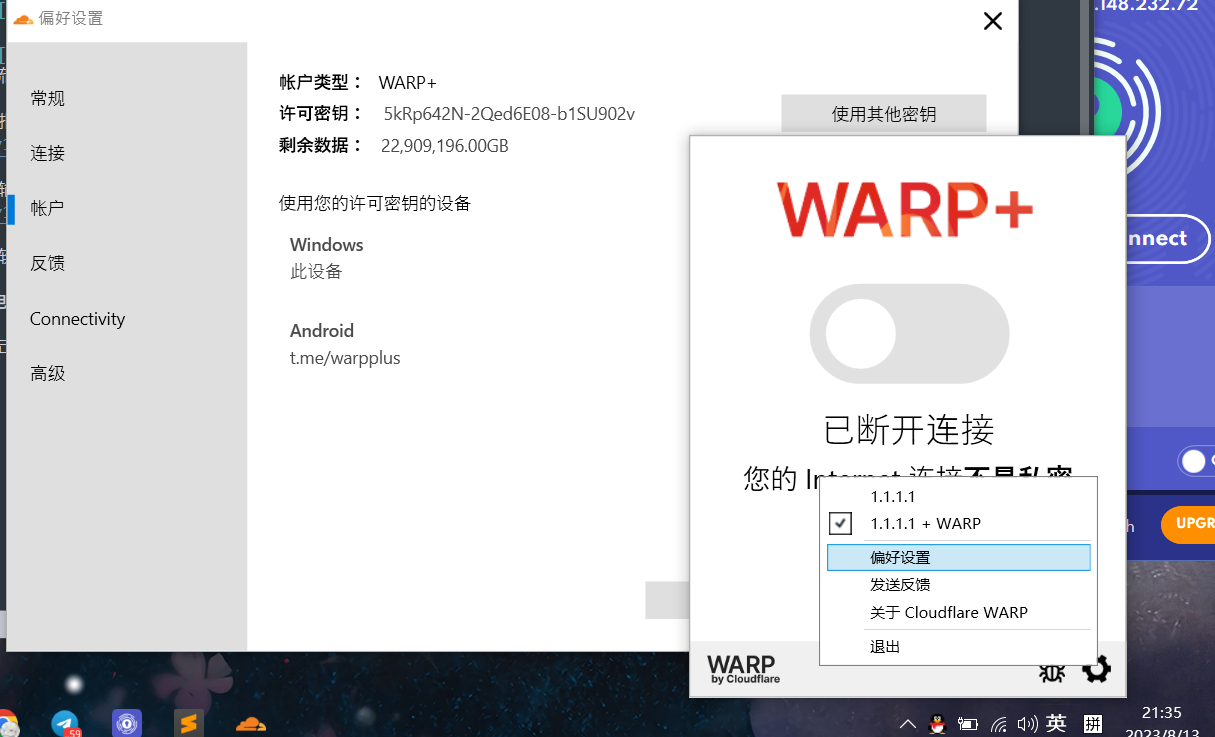
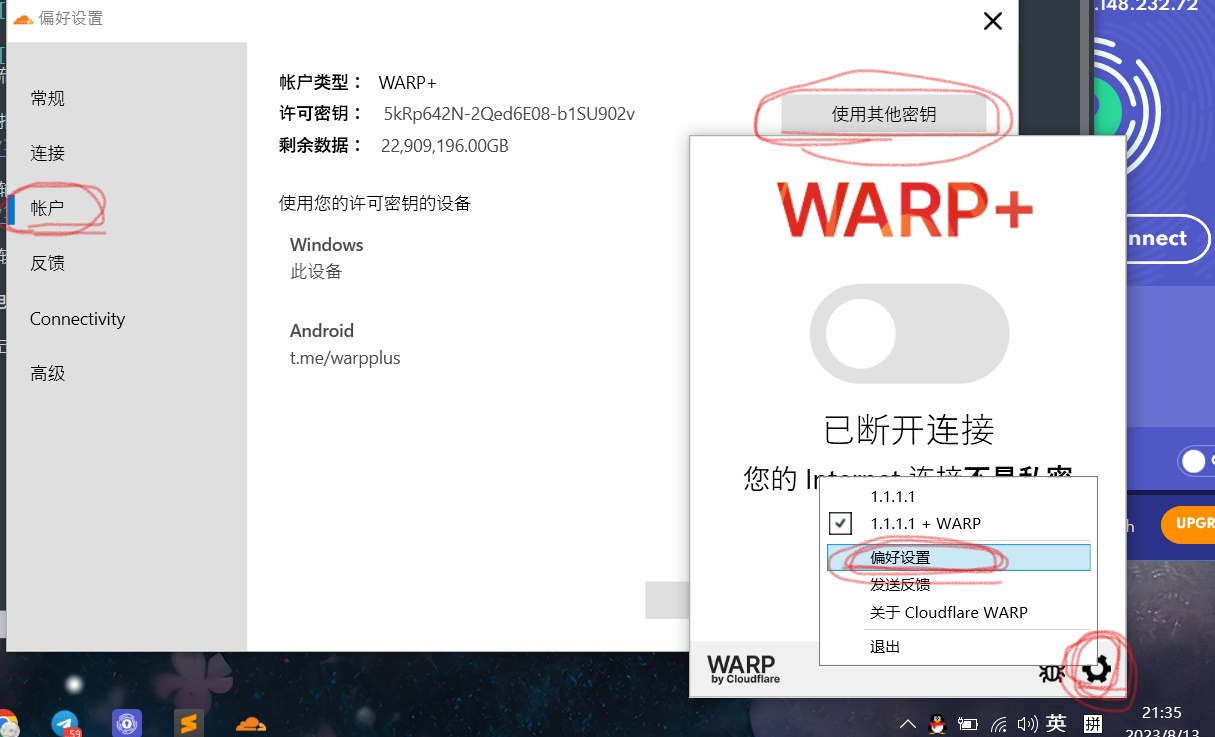
Site updated: 2023-08-13 22:03:11

diff --git a/2023/08/13/good/index.html b/2023/08/13/good/index.html
@@ -12,7 +12,7 @@
 
     
     <title>
-        无限解锁YouTube |
+        无限流量VPN |
         
         Sherry的博客</title>
     <meta name="viewport" content="width=device-width, initial-scale=1, shrink-to-fit=no">
@@ -23,18 +23,18 @@
     
 <link rel="stylesheet" href="/css/loader.css">
 
-    <meta name="description" content="WARP+  首先去WARP官网 下载软件   其次去电报机器人领取12~23PB的流量密钥（注：1PB&#x3D;1000TB&#x3D;1000 000GB流量）由此可以实现近乎无限流量解锁外网YouTube。   进入电报之后首先输入&#x2F;start，再输入&#x2F;generate，这个时候需要点进去并且关注这两个频道。   然后再输入&#x2F;generate，这个时候会弹出来">
+    <meta name="description" content="WARP+  首先去WARP官网 下载软件   其次去电报机器人领取23PB的流量密钥（注：1PB&#x3D;1000TB&#x3D;1000 000GB流量）由此可以实现近乎无限流量解锁外网YouTube。   进入电报之后首先输入&#x2F;start，再输入&#x2F;generate，这个时候需要点进去并且关注这两个频道。   然后再输入&#x2F;generate，这个时候会弹出来简单的">
 <meta property="og:type" content="article">
-<meta property="og:title" content="无限解锁YouTube">
+<meta property="og:title" content="无限流量VPN">
 <meta property="og:url" content="https://sherry14love.github.io/2023/08/13/good/index.html">
 <meta property="og:site_name" content="Sherry的博客">
-<meta property="og:description" content="WARP+  首先去WARP官网 下载软件   其次去电报机器人领取12~23PB的流量密钥（注：1PB&#x3D;1000TB&#x3D;1000 000GB流量）由此可以实现近乎无限流量解锁外网YouTube。   进入电报之后首先输入&#x2F;start，再输入&#x2F;generate，这个时候需要点进去并且关注这两个频道。   然后再输入&#x2F;generate，这个时候会弹出来">
+<meta property="og:description" content="WARP+  首先去WARP官网 下载软件   其次去电报机器人领取23PB的流量密钥（注：1PB&#x3D;1000TB&#x3D;1000 000GB流量）由此可以实现近乎无限流量解锁外网YouTube。   进入电报之后首先输入&#x2F;start，再输入&#x2F;generate，这个时候需要点进去并且关注这两个频道。   然后再输入&#x2F;generate，这个时候会弹出来简单的">
 <meta property="og:locale" content="zh_CN">
 <meta property="og:image" content="https://sherry14love.github.io/images/warpbot.jpg">
 <meta property="og:image" content="https://sherry14love.github.io/images/warpkey.jpg">
 <meta property="og:image" content="https://sherry14love.github.io/images/warps.jpg">
 <meta property="article:published_time" content="2023-08-12T16:00:00.000Z">
-<meta property="article:modified_time" content="2023-08-13T13:51:19.454Z">
+<meta property="article:modified_time" content="2023-08-13T14:01:57.014Z">
 <meta property="article:author" content="Sherry">
 <meta property="article:tag" content="实用">
 <meta name="twitter:card" content="summary">
@@ -113,7 +113,7 @@
         <div id="wrap">
             <header id="header">
     
-        <img data-src="/images/banner.jpg" data-sizes="auto" alt="无限解锁YouTube" class="lazyload">
+        <img data-src="/images/banner.jpg" data-sizes="auto" alt="无限流量VPN" class="lazyload">
     
     <div id="header-outer" class="outer">
         <div id="header-title" class="inner">
@@ -121,7 +121,7 @@
                 
                     
                     
-                        <a href="/" id="logo"><h1>无限解锁YouTube</h1></a>
+                        <a href="/" id="logo"><h1>无限流量VPN</h1></a>
                     
                 
             </div>
@@ -197,20 +197,20 @@
         <div class="e-content article-entry" itemprop="articleBody">
             
                 <h2 id="WARP"><a href="#WARP" class="headerlink" title="WARP+"></a>WARP+</h2><p>  首先去<a target="_blank" rel="noopener" href="https://1.1.1.1/">WARP官网</a> 下载软件</p>
-<p>  其次去<a target="_blank" rel="noopener" href="https://t.me/generatewarpplusbot">电报机器人</a>领取12~23PB的流量密钥（注：1PB&#x3D;1000TB&#x3D;1000 000GB流量）由此可以实现近乎无限流量解锁外网YouTube。</p>
+<p>  其次去<a target="_blank" rel="noopener" href="https://t.me/generatewarpplusbot">电报机器人</a>领取23PB的流量密钥（注：1PB&#x3D;1000TB&#x3D;1000 000GB流量）由此可以实现近乎无限流量解锁外网YouTube。</p>
 <p>  进入电报之后首先输入&#x2F;start，再输入&#x2F;generate，这个时候需要点进去并且关注这两个频道。<img src="https://sherry14love.github.io/images/warpbot.jpg" alt="1"></p>
 <p>  然后再输入&#x2F;generate，这个时候会弹出来简单的数字相加减，输入&#x2F;generate 9（如图所示）<img src="https://sherry14love.github.io/images/warpkey.jpg" alt="2"></p>
-<p>  最后在软件的偏好设置里，点击账户，里面有个使用其他密钥，更换密钥就行了。<img src="https://sherry14love.github.io/images/warps.jpg" alt="2"></p>
+<p>  最后在软件的<strong>偏好设置</strong>里，点击<strong>账户</strong>，里面有个<strong>使用其他密钥</strong>，更换密钥就行了。<img src="https://sherry14love.github.io/images/warps.jpg" alt="3"></p>
 <h2 id="没有电报怎么办"><a href="#没有电报怎么办" class="headerlink" title="没有电报怎么办"></a>没有电报怎么办</h2><p>  可以点击<a target="_blank" rel="noopener" href="https://replit.com/@kelekekou8/WarpKey">这个</a>，然后直接运行也可以生成一个密钥，从而进行使用。</p>
 <blockquote>
-<p>注意这里面的WARP虽然又两千多万GB流量，但是这个流量不能支持<strong>Open AI</strong>、<strong>Netflix</strong>、<strong>tiktok</strong>、<strong>Disney</strong>，但对于<strong>YouTube</strong>、<strong>Facebook</strong>、<strong>Twitter</strong>、<strong>Discord</strong>、<strong>Tumblr</strong>、<strong>Mastodon</strong>等网页是支持访问且无限制的，不过需注意这里的访问和你在国内一样，如果你平常不用<strong>VPN</strong>进行上网保护个人隐私的话。</p>
+<p>注意这里面的WARP虽然又两千多万GB流量，但是这个流量不能支持<strong>Open AI</strong>、<strong>Netflix</strong>、<strong>tiktok</strong>、<strong>Disney</strong>，但对于<strong>YouTube</strong>、<strong>Facebook</strong>、<strong>Twitter</strong>、<strong>Discord</strong>、<strong>Tumblr</strong>、<strong>Mastodon</strong>等网页是支持访问且无限制的，不过需注意这里的访问和你在国内一样，如果你平常不用<strong>VPN</strong>进行上网保护个人隐私的话（会暴露个人ip）。</p>
 </blockquote>
-<h2 id="解锁ChatGPT和Netflix"><a href="#解锁ChatGPT和Netflix" class="headerlink" title="解锁ChatGPT和Netflix"></a>解锁ChatGPT和Netflix</h2><p>  这里会有朋友问怎么可以去Open AI、Netflix、tiktok、Disney这几个网站，这个的话，倒也是有几个方法，但是Sherry太垃圾了，这几天还在练车，没怎么有时间搞。<br>  不过你去YouTube里搜索一下，一大堆利用WARP的解锁篇，解锁ChatGPT和Netflix的（多半是用VPS解锁，加油~）</p>
+<h2 id="解锁ChatGPT和Netflix"><a href="#解锁ChatGPT和Netflix" class="headerlink" title="解锁ChatGPT和Netflix"></a>解锁ChatGPT和Netflix</h2><p>  这里会有朋友问怎么可以去Open AI、Netflix、tiktok、Disney这几个网站，这个的话，倒也是有几个方法，但是Sherry太垃圾了，这几天还在练车，没怎么有时间搞。<br>  不过你去YouTube里搜索一下，一大堆利用WARP的解锁篇，解锁ChatGPT和Netflix的（多半是用VPS解锁，嗯~ o(<em>￣▽￣</em>)o）</p>
 
             
         </div>
         <footer class="article-footer">
-            <a data-url="https://sherry14love.github.io/2023/08/13/good/" data-id="cll9i829o0000y0tx81rc7uq8" data-title="无限解锁YouTube"
+            <a data-url="https://sherry14love.github.io/2023/08/13/good/" data-id="cll9i829o0000y0tx81rc7uq8" data-title="无限流量VPN"
                class="article-share-link">分享</a>
             
                 <a href="/2023/08/13/good/#comments" class="article-comment-link">
@@ -236,7 +236,7 @@
                 
                     
                     
-                        <img data-src="/covers/281d5y.jpg" data-sizes="auto" alt="拾词-Two" class="lazyload">
+                        <img data-src="/covers/2003389.jpg" data-sizes="auto" alt="拾词-Two" class="lazyload">
                     
                 
                 <a href="/2023/08/11/mood/"></a>

diff --git a/index.html b/index.html
@@ -175,7 +175,7 @@
             
                 
                 
-                    <img data-src="/covers/281d5y.jpg" data-sizes="auto" alt="无限解锁YouTube" class="lazyload">
+                    <img data-src="/covers/EA141EDCBED74EFB8344540EF62BDEDA.jpg" data-sizes="auto" alt="无限流量VPN" class="lazyload">
                 
             
 
@@ -184,21 +184,21 @@
             <div class="post-meta">
                 <a><span class="icon-calendar"></span>2023-08-13</a>
                 
-                    <a><span class="icon-pencil"></span>370 字</a>
+                    <a><span class="icon-pencil"></span>376 字</a>
                 
                 
                     <a><span class="icon-clock"></span>1 分钟</a>
                 
             </div>
-            <h2 class="post-title">无限解锁YouTube</h2>
+            <h2 class="post-title">无限流量VPN</h2>
             <article class="post-article">
                 
                     WARP+  首先去WARP官网 下载软件
-  其次去电报机器人领取12~23PB的流量密钥（注：1PB&amp;#x3D;1000TB&amp;#x3D;1000 000GB流量）由此可以实现近乎无限流量解锁外网YouTube。
+  其次去电报机器人领取23PB的流量密钥（注：1PB&amp;#x3D;1000TB&amp;#x3D;1000 000GB流量）由此可以实现近乎无限流量解锁外网YouTube。
   进入电报之后首先输入&amp;#x2F;start，再输入&amp;#x2F;generate，这个时候需要点进去并且关注这两个频道。
   然后再输入&amp;#x2F;generate，这个时候会弹出来简单的数字相加减，输入&amp;#x2F;generate 9（如图所示）
   最后在软件的偏好设置里，点击账户，里面有个使用其他密钥，更换密钥就行了。
-没有电报怎么办  可以点击这个，然后直接运行也可以生成
+没有电报怎么办  可以点击这个，然后直接运行也可以生成一个密
                 
             </article>
         </div>
@@ -215,7 +215,7 @@
             
                 
                 
-                    <img data-src="/covers/2003466.jpg" data-sizes="auto" alt="拾词-Two" class="lazyload">
+                    <img data-src="https://d-sketon.top/img/backimg/bg1.jpg" data-sizes="auto" alt="拾词-Two" class="lazyload">
                 
             
         </div>
@@ -223,7 +223,7 @@
             <div class="post-meta">
                 <a><span class="icon-calendar"></span>2023-08-11</a>
                 
-                    <a><span class="icon-pencil"></span>0 字</a>
+                    <a><span class="icon-pencil"></span>32 字</a>
                 
                 
                     <a><span class="icon-clock"></span>1 分钟</a>
@@ -232,7 +232,10 @@
             <h2 class="post-title">拾词-Two</h2>
             <article class="post-article">
                 
-                    
+                    暂无内容，Sherry懒得写（虽说前几天就想写了）
+鸽掉先（bushi）
+PS:后面一定补上！（私密马赛~）
+
                 
             </article>
         </div>
@@ -295,7 +298,7 @@
             
                 
                 
-                    <img data-src="/covers/2000248.jpg" data-sizes="auto" alt="拾词-One" class="lazyload">
+                    <img data-src="https://d-sketon.top/img/backimg/bg1.jpg" data-sizes="auto" alt="拾词-One" class="lazyload">
                 
             
         </div>

diff --git a/2023/08/11/mood/index.html b/2023/08/11/mood/index.html
@@ -23,13 +23,15 @@
     
 <link rel="stylesheet" href="/css/loader.css">
 
-    <meta property="og:type" content="article">
+    <meta name="description" content="暂无内容，Sherry懒得写（虽说前几天就想写了） 鸽掉先（bushi） PS:后面一定补上！（私密马赛~）">
+<meta property="og:type" content="article">
 <meta property="og:title" content="拾词-Two">
 <meta property="og:url" content="https://sherry14love.github.io/2023/08/11/mood/index.html">
 <meta property="og:site_name" content="Sherry的博客">
+<meta property="og:description" content="暂无内容，Sherry懒得写（虽说前几天就想写了） 鸽掉先（bushi） PS:后面一定补上！（私密马赛~）">
 <meta property="og:locale" content="zh_CN">
 <meta property="article:published_time" content="2023-08-11T12:13:06.646Z">
-<meta property="article:modified_time" content="2023-08-13T13:51:12.669Z">
+<meta property="article:modified_time" content="2023-08-13T13:55:04.333Z">
 <meta property="article:author" content="Sherry">
 <meta property="article:tag" content="诗词">
 <meta name="twitter:card" content="summary">
@@ -190,7 +192,10 @@
 
         <div class="e-content article-entry" itemprop="articleBody">
             
-                
+                <p>暂无内容，Sherry懒得写（虽说前几天就想写了）</p>
+<p>鸽掉先（bushi）</p>
+<p>PS:后面一定补上！（私密马赛~）</p>
+
             
         </div>
         <footer class="article-footer">
@@ -219,14 +224,14 @@
                 
                     
                     
-                        <img data-src="/covers/2003466.jpg" data-sizes="auto" alt="无限解锁YouTube" class="lazyload">
+                        <img data-src="/covers/2020126.jpg" data-sizes="auto" alt="无限流量VPN" class="lazyload">
                     
                 
                 <a href="/2023/08/13/good/"></a>
                 <div class="article-nav-caption">前一篇</div>
                 <h3 class="article-nav-title">
                     
-                        无限解锁YouTube
+                        无限流量VPN
                     
                 </h3>
             </div>
@@ -236,7 +241,7 @@
                 
                     
                     
-                        <img data-src="/covers/2003466.jpg" data-sizes="auto" alt="Google、VPN和GPT" class="lazyload">
+                        <img data-src="/covers/1001561.jpg" data-sizes="auto" alt="Google、VPN和GPT" class="lazyload">
                     
                 
                 <a href="/2023/07/19/tool/"></a>

diff --git a/2023/07/14/hello-world/index.html b/2023/07/14/hello-world/index.html
@@ -252,7 +252,7 @@
                 
                     
                     
-                        <img data-src="/covers/323036.jpg" data-sizes="auto" alt="Google、VPN和GPT" class="lazyload">
+                        <img data-src="/covers/292741.jpg" data-sizes="auto" alt="Google、VPN和GPT" class="lazyload">
                     
                 
                 <a href="/2023/07/19/tool/"></a>

diff --git a/2023/07/19/tool/index.html b/2023/07/19/tool/index.html
@@ -344,7 +344,7 @@
                 
                     
                     
-                        <img data-src="/covers/2025644.jpg" data-sizes="auto" alt="拾词-One" class="lazyload">
+                        <img data-src="/covers/2000248.jpg" data-sizes="auto" alt="拾词-One" class="lazyload">
                     
                 
                 <a href="/2023/07/14/hello-world/"></a>

diff --git a/archives/2023/08/index.html b/archives/2023/08/index.html
@@ -211,7 +211,7 @@
     <div class="archive-article-title-wrap">
         
             
-                <a class="archive-article-title" href="/2023/08/13/good/">无限解锁YouTube</a>
+                <a class="archive-article-title" href="/2023/08/13/good/">无限流量VPN</a>
             
         
     </div>

diff --git a/archives/2023/index.html b/archives/2023/index.html
@@ -211,7 +211,7 @@
     <div class="archive-article-title-wrap">
         
             
-                <a class="archive-article-title" href="/2023/08/13/good/">无限解锁YouTube</a>
+                <a class="archive-article-title" href="/2023/08/13/good/">无限流量VPN</a>
             
         
     </div>

diff --git a/archives/index.html b/archives/index.html
@@ -211,7 +211,7 @@
     <div class="archive-article-title-wrap">
         
             
-                <a class="archive-article-title" href="/2023/08/13/good/">无限解锁YouTube</a>
+                <a class="archive-article-title" href="/2023/08/13/good/">无限流量VPN</a>
             
         
     </div>

diff --git a/categories/魔法/index.html b/categories/魔法/index.html
@@ -215,7 +215,7 @@
     <div class="archive-article-title-wrap">
         
             
-                <a class="archive-article-title" href="/2023/08/13/good/">无限解锁YouTube</a>
+                <a class="archive-article-title" href="/2023/08/13/good/">无限流量VPN</a>
             
         
     </div>

diff --git a/tags/实用/index.html b/tags/实用/index.html
@@ -215,7 +215,7 @@
     <div class="archive-article-title-wrap">
         
             
-                <a class="archive-article-title" href="/2023/08/13/good/">无限解锁YouTube</a>
+                <a class="archive-article-title" href="/2023/08/13/good/">无限流量VPN</a>
             
         
     </div>
